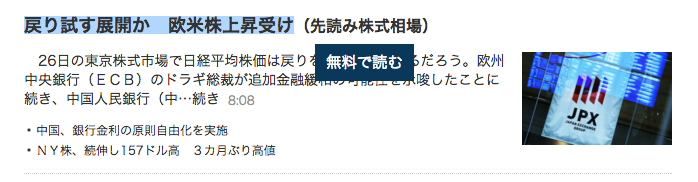
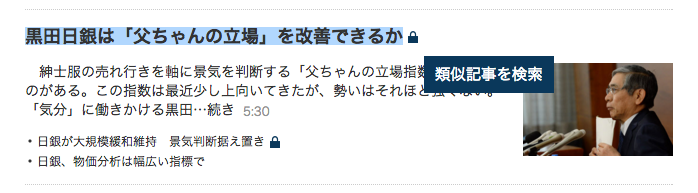
[add]主要なメディアに対応

diff --git a/dev/entry.js b/dev/entry.js
@@ -4,7 +4,8 @@ import {getQuery} from './query';
 import {logSelection, getSelection} from './selection';
 
 const body = $('body');
-const textDefault = '無料で読む';
+const textDefault = '類似記事を検索';
+const textFree = '無料で読む';
 const textLoading = '読込中';
 const styleNhLink = {
   'padding': '10px',
@@ -27,7 +28,7 @@ function addReadFreeBtn() {
   const {pathname, host} = window.location;
   if (host !== 'www.nikkei.com' || pathname.split('/')[1] !== 'article') return;
   const btn = $(`<a href="" onclick="" class="cmnc-button" target="_blank"></a>`)
-    .html('<span class="cmn-icon_member">［有料会員限定］</span>&nbsp;' + textDefault);
+    .html('<span class="cmn-icon_member">［有料会員限定］</span>&nbsp;' + textFree);
   const text = $('h1.cmn-article_title .cmnc-middle').text();
   getQuery(text)
     .then((query) => {

diff --git a/README.md b/README.md
@@ -2,7 +2,7 @@
 
 ## 概要
 
-nikkei-hacker(日経ハッカー)は、<a href="http://www.nikkei.com/" target="_blank">日本経済新聞電子版</a>有料記事を無料で読むことができるChrome拡張アプリです。実際には、類似記事をGoogleから簡単に検索することができます。
+nikkei-hacker(日経ハッカー)は、<a href="http://www.nikkei.com/" target="_blank">日本経済新聞電子版</a>有料記事の類似記事を検索し、同じ内容の記事を無料で読むことができるChrome拡張アプリです。
 
 ## 使い方
 
@@ -10,9 +10,13 @@ nikkei-hacker(日経ハッカー)は、<a href="http://www.nikkei.com/" target="
 
 ![](img/sample1.png)
 
-### ② 記事タイトルを選択し、出現した`無料で読む`ボタンを押すことで、`http://www.nikkei.com`上のすべてのページで使用することもできます。
+### ② 記事タイトルを選択し、出現した`類似記事を検索`ボタンを押すことで、<a href="http://www.nikkei.com/" target="_blank">日経電子版</a>上のすべてのページで使用することもできます。
+
+こちらの機能は、<a href="https://newspicks.com/" target="_blank">NewsPicks</a>、<a href="http://www.sankei.com/" target="_blank">産経ニュース</a>、<a href="http://www.asahi.com/?iref=com_gnavi_top" target="_blank">朝日新聞デジタル</a>、<a href="http://mainichi.jp/" target="_blank">毎日新聞</a>、<a href="http://www.yomiuri.co.jp/" target="_blank">読売新聞</a>、<a href="http://www3.nhk.or.jp/news/" target="_blank">NHKニュース</a>にも対応しています。
 
 ![](img/sample2.png)
+
+
 
 ## インストール
 
